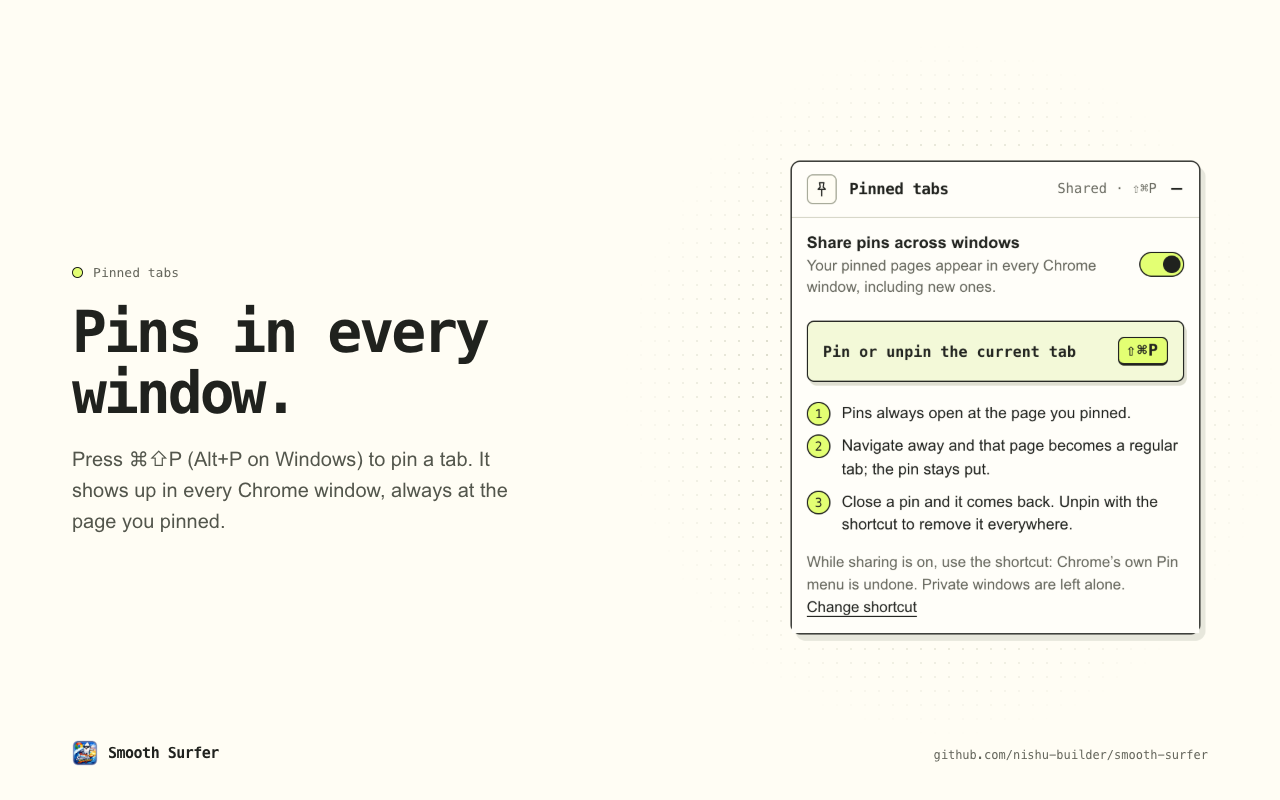
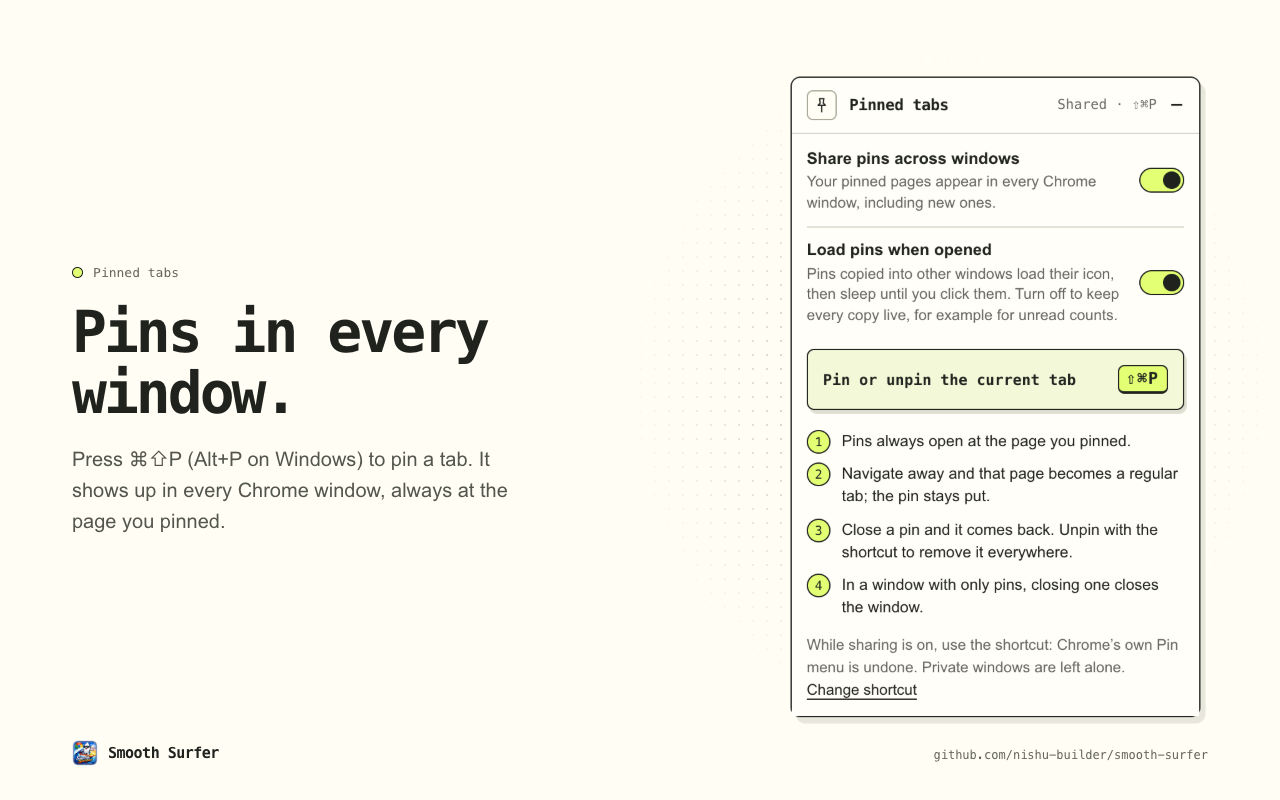
Release 0.4.0 with tab search, sleeping pins, and new graphics
Bump the version and move the changelog entries under 0.4.0. Add a tab search
screenshot and refresh the pinned tabs one; update the store description and
screenshot order, README, and welcome tip. Fix highlighted matches in tab
search being unreadable in dark mode.

Make the capture script wait for the extension worker before seeding (an
early evaluation could stall) and time out instead of hanging, and pin the
smoke test's review page to the light palette its color checks expect.

diff --git a/src/tab-search.js b/src/tab-search.js
@@ -46,7 +46,7 @@
     .title, .url { overflow: hidden; text-overflow: ellipsis; white-space: nowrap; }
     .title { font-weight: 700; }
     .url { color: var(--ss-muted, #64655b); font-size: 12px; }
-    mark { background: var(--ss-accent, #e3ff73); color: inherit; border-radius: 2px; }
+    mark { background: var(--ss-accent, #e3ff73); color: var(--ss-accent-ink, #20221e); border-radius: 2px; }
     .badge {
       padding: 0 7px; border: 1px solid var(--ss-line, #d7d7c9); border-radius: 999px; color: var(--ss-muted, #64655b);
       font: 10.5px/1.6 var(--ss-mono, "SFMono-Regular", Consolas, monospace);

diff --git a/welcome.html b/welcome.html
@@ -81,7 +81,7 @@
       <div class="step-head">
         <span class="badge">Tip</span>
         <h2 id="pin-title">Keep Smooth Surfer one click away</h2>
-        <p>Click the puzzle piece in Chrome’s toolbar, then the pin next to Smooth Surfer. Its menu shows what’s on for the site you’re visiting.</p>
+        <p>Click the puzzle piece in Chrome’s toolbar, then the pin next to Smooth Surfer. Its menu shows what’s on for the site you’re visiting. And press <kbd data-search-shortcut>⌘K</kbd> on any page to search this window’s tabs.</p>
       </div>
     </section>
 

diff --git a/src/welcome.js b/src/welcome.js
@@ -26,6 +26,8 @@
     });
   else if (!isMac) document.querySelector("[data-pin-shortcut]").textContent = "Alt+P";
 
+  if (!isMac) document.querySelector("[data-search-shortcut]").textContent = "Ctrl+K";
+
   Promise.all([loadSettings(), loadSecrets()]).then(([loaded, secrets]) => {
     settings = normalizeSettings(loaded);
     key.value = secrets.anthropicApiKey || "";

diff --git a/docs/store-listing.md b/docs/store-listing.md
@@ -1,6 +1,6 @@
 # Chrome Web Store listing
 
-Source copy for the Chrome Web Store developer dashboard, updated for 0.3.0.
+Source copy for the Chrome Web Store developer dashboard, updated for 0.4.0.
 Package publishing does not update the long description, privacy answers, or
 screenshots automatically; apply those fields in the dashboard before submission.
 
@@ -31,8 +31,12 @@ that day. It's on for the built-in sites by default, and you can add any other.
 
 Pinned tabs in every window
 Pin a tab with Cmd+Shift+P (Alt+P on Windows/Linux) and it appears in every
-Chrome window. Pins stay at their saved page, and closing one brings it back
-instead of losing it.
+Chrome window. Pins stay at their saved page, closing one brings it back
+instead of losing it, and copies in other windows sleep until you open them.
+
+Find any tab
+Press Cmd+K (Ctrl+K) to search this window's tabs and jump to one. Sites that
+use Cmd+K themselves keep it.
 
 Everything works as soon as you install it, and every setting explains itself.
 No account, no analytics, and no Smooth Surfer servers. Open source:
@@ -40,14 +44,17 @@ https://github.com/nishu-builder/smooth-surfer
 
 **Category:** Productivity → Workflow & Planning
 
-**Screenshots** (1280×800, in this order, from [store-assets/](store-assets/);
-regenerate with `node scripts/capture-store-assets.mjs`):
+**Screenshots** (1280×800, from [store-assets/](store-assets/); regenerate with
+`node scripts/capture-store-assets.mjs`). The store allows five; upload these,
+in this order:
 
 1. `01-overview.png`: Calmer feeds, no setup needed.
-2. `02-ai-filter.png`: Hide posts you'd rather not see.
-3. `03-hidden-posts.png`: Check every call.
+2. `06-tab-search.png`: Find any tab in this window.
+3. `02-ai-filter.png`: Hide posts you'd rather not see.
 4. `04-loading-delay.png`: A pause before habit sites.
 5. `05-pinned-tabs.png`: Pins in every window.
+
+`03-hidden-posts.png` (Check every call) is used in the README only.
 
 **Small promo tile** (440×280): `promo-tile-440x280.png`
 

diff --git a/README.md b/README.md
@@ -139,6 +139,8 @@ you pinned. Sharing is on by default; turn it off to keep pins per window.
 
 ### Everywhere
 
+![Tab search: find any tab in this window with Cmd+K](docs/store-assets/06-tab-search.png)
+
 - **Pause deep scrolling:** after about 16 screens of a feed, a surf break waits
   for you to choose Keep going.
 - **Gray distracting media:** mutes images and video in feeds. Both of these
@@ -149,7 +151,7 @@ you pinned. Sharing is on by default; turn it off to keep pins per window.
 - **Focus hours:** run Smooth Surfer only between set times, including overnight
   ranges.
 - **Tab search:** press Cmd+K (Ctrl+K) to search this window's tabs by title or
-  address, then Enter to switch. Sites that use Cmd+K themselves, like GitHub or
+  address, with their icons, then Enter to switch. Sites that use Cmd+K themselves, like GitHub or
   Slack, keep it. It can't open on Chrome's own pages, such as the New Tab page;
   Chrome's Search tabs (Cmd+Shift+A) covers every window.
 - **Settings shortcut:** press Cmd+Shift+S (Ctrl+Shift+S) twice to open the menu.

diff --git a/CHANGELOG.md b/CHANGELOG.md
@@ -3,11 +3,12 @@
 Notable changes per released version. Versions match `manifest.json`, and a
 release is a `v*` tag; see [docs/RELEASING.md](docs/RELEASING.md).
 
-## Unreleased
+## 0.4.0
 
 - In a window that holds only pinned tabs, closing a pin with Cmd+W now closes the window instead of bringing the pin straight back. Saved pins are kept.
 - Pinned copies in other windows load once for their title and icon, then sleep until you open them. Turn off **Load pins when opened** in Pinned tabs to keep every copy live.
 - Add tab search: Cmd+K (Ctrl+K) lists this window's tabs, with their icons, to filter and switch. The page gets the key first, so sites with their own Cmd+K keep it. Turn it off under Everywhere. Icons come from Chrome's local icon cache through the new `favicon` permission.
+- Add a tab search store screenshot and refresh the pinned tabs one; the capture script now waits for the extension worker before seeding sample data.
 
 ## 0.3.0
 
